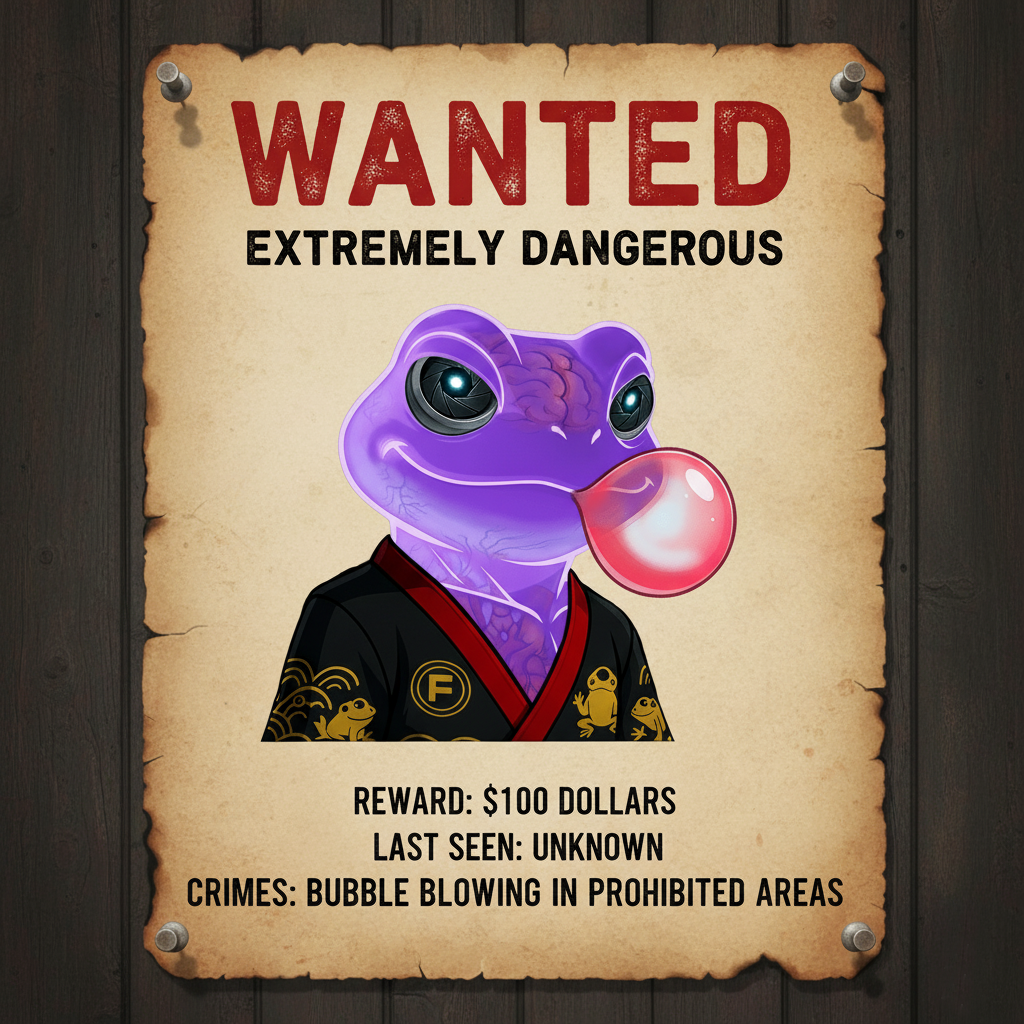
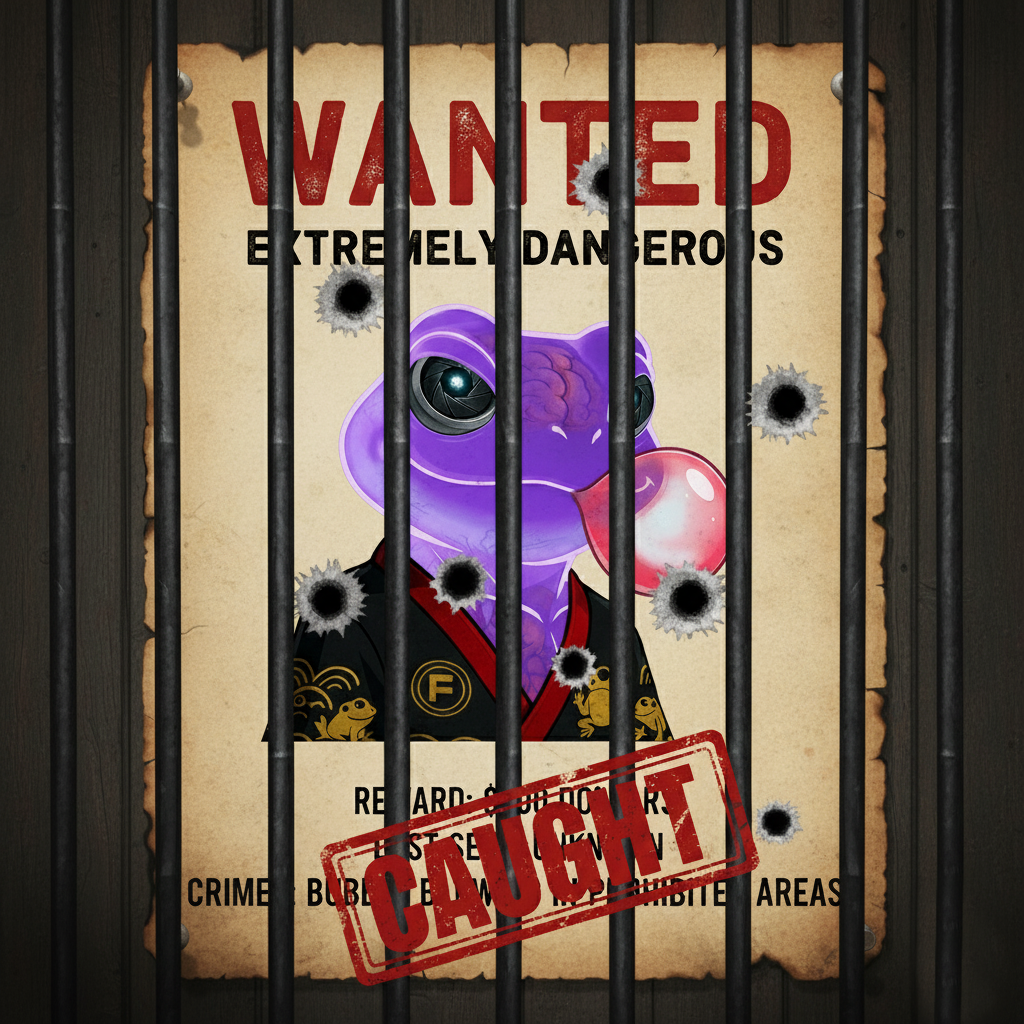
caught

Changed region(s): [[0.125, 0.0, 0.875, 1.0], [0.0312, 0.0, 0.0938, 1.0], [0.9062, 0.0, 0.9688, 1.0]]

diff --git a/src/app/components/WantedBlock.tsx b/src/app/components/WantedBlock.tsx
@@ -3,17 +3,14 @@
 import Image from 'next/image'
 import { useMemo } from 'react'
 
-/** ===================== НАСТРОЙКИ (МЕНЯТЬ ТУТ) ===================== */
-/** Награда в долларах — единая точка правды */
+/** ===================== НАСТРОЙКИ (менять тут) ===================== */
 const PRICE_USD = 100
 
-/** Пути к постерам (сложи файлы в /public) */
 const IMAGES = {
-  wanted: '/wanted-froc.png', // постер для режима WANTED
-  caught: '/caught-froc.png', // постер для режима CAUGHT
+  wanted: '/wanted-froc.png',
+  caught: '/caught-froc.png',
 }
 
-/** Тексты для сайта (английский) */
 const COPY = {
   titleWanted: 'ATTENTION: WANTED',
   subtitleWanted: (price: number) =>
@@ -42,19 +39,13 @@ const COPY = {
 
 type Mode = 'wanted' | 'caught'
 
-/** Основной компонент блока розыска */
 export default function WantedBlock({ mode = 'wanted' as Mode }: { mode?: Mode }) {
-  /** Режим отображения */
   const isWanted = mode === 'wanted'
-
-  /** Источник постера */
   const posterSrc = isWanted ? IMAGES.wanted : IMAGES.caught
 
-  /** Мемуизированные списки — стабильный рендер */
   const traitsList = useMemo(() => COPY.traits, [])
   const howToList = useMemo(() => COPY.howToSteps(PRICE_USD), [])
 
-  /** Малый бэйдж */
   const Badge = ({ children }: { children: React.ReactNode }) => (
     <span className="inline-flex items-center gap-2 rounded-full border border-white/15 bg-white/10 px-3 py-1 text-xs text-white/80">
       {children}
@@ -62,19 +53,11 @@ export default function WantedBlock({ mode = 'wanted' as Mode }: { mode?: Mode }
   )
 
   return (
-    // На мобилке тянем блок к краям контейнера (px-0), на десктопе даём стандартные поля
     <section className="mx-auto mt-8 max-w-6xl px-0 sm:px-6">
-      <div
-        className="
-          relative overflow-hidden rounded-none sm:rounded-2xl
-          border border-white/10 bg-white/5 backdrop-blur
-          shadow-[0_8px_30px_rgba(0,0,0,.35)]
-        "
-      >
-        {/* Тонкая акцентная полоса сверху */}
+      <div className="relative overflow-hidden rounded-none sm:rounded-2xl border border-white/10 bg-white/5 backdrop-blur shadow-[0_8px_30px_rgba(0,0,0,.35)]">
         <div className="pointer-events-none absolute inset-x-0 top-0 h-1 bg-gradient-to-r from-emerald-400/70 via-sky-400/70 to-violet-400/70" />
 
-        {/* Шапка: бэйджи + заголовки (всегда сверху) */}
+        {/* Шапка */}
         <div className="px-4 pt-4 sm:px-6 sm:pt-6">
           <div className="mb-2 flex flex-wrap items-center gap-2">
             <Badge>{isWanted ? 'Active bounty' : 'Status: caught'}</Badge>
@@ -89,37 +72,26 @@ export default function WantedBlock({ mode = 'wanted' as Mode }: { mode?: Mode }
           </p>
         </div>
 
-        {/* Контентная сетка:
-            - mobile: постер сверху, затем текст (order)
-            - ≥ md: две колонки, текст слева, постер справа */}
-        <div
-          className="
-            mt-4
-            grid
-            sm:gap-6
-            md:grid-cols-2 md:gap-10 md:px-6 md:pb-6
-            items-start
-          "
-        >
-          {/* ПОСТЕР — mobile first сверху, на десктопе справа */}
+        {/* Контент: mobile → постер сверху; ≥md → 2 колонки, текст слева, постер справа */}
+        <div className="mt-4 grid sm:gap-6 md:grid-cols-2 md:gap-10 md:px-6 md:pb-6 items-start">
+          {/* POSTER — mobile first: сверху; desktop: справа. 
+              Десктопный блок взят из «старой» версии без изменений */}
           <div className="order-1 md:order-2 px-0">
             <div
               className="
-                relative w-full overflow-hidden
-                rounded-none sm:rounded-xl
+                relative w-full overflow-hidden rounded-xl
                 border border-white/10 bg-black/20 p-2
                 shadow-[0_8px_30px_rgba(0,0,0,.35)]
-                flex items-center md:items-start justify-center
+                flex items-center justify-center
                 max-w-[560px] mx-auto md:ml-auto
               "
             >
-              {/* intrinsic ratio через width/height; h-auto исключает лишнюю пустоту */}
               <Image
                 src={posterSrc}
                 alt={isWanted ? 'Wanted FROC' : 'Caught FROC'}
-                width={900}
+                width={900}   /* портретное intrinsic ratio */
                 height={1200}
-                className="w-full h-auto max-h-[60vh] md:max-h-[62vh] object-contain"
+                className="w-full h-auto max-h-[70vh] object-contain"
                 priority
               />
             </div>
@@ -131,11 +103,10 @@ export default function WantedBlock({ mode = 'wanted' as Mode }: { mode?: Mode }
             </div>
           </div>
 
-          {/* ТЕКСТ/АТРИБУТЫ — на мобилке ниже постера; на десктопе слева */}
+          {/* TEXT — mobile: ниже постера; desktop: слева */}
           <div className="order-2 md:order-1 px-4 sm:px-0 md:pr-6 pb-5 md:pb-0">
             {isWanted && (
               <>
-                {/* Особые приметы */}
                 <h3 className="mt-4 md:mt-0 text-sm font-semibold tracking-wide text-white/70">
                   {COPY.traitsTitle}
                 </h3>
@@ -150,7 +121,6 @@ export default function WantedBlock({ mode = 'wanted' as Mode }: { mode?: Mode }
                   ))}
                 </ul>
 
-                {/* Как получить награду */}
                 <h3 className="mt-6 text-sm font-semibold tracking-wide text-white/70">
                   {COPY.howToTitle}
                 </h3>

diff --git a/src/app/page.tsx b/src/app/page.tsx
@@ -82,7 +82,9 @@ export default function Page() {
             <MintForm />
             <MintStatsInline />
 
-            <WantedBlock mode="wanted" />
+
+            {/* <WantedBlock mode="caught" /> */}
+            <WantedBlock mode="caught" /> 
 
             {/* --- Showcase: превью NFT под цифрами --- */}
             <div className="mt-6">
